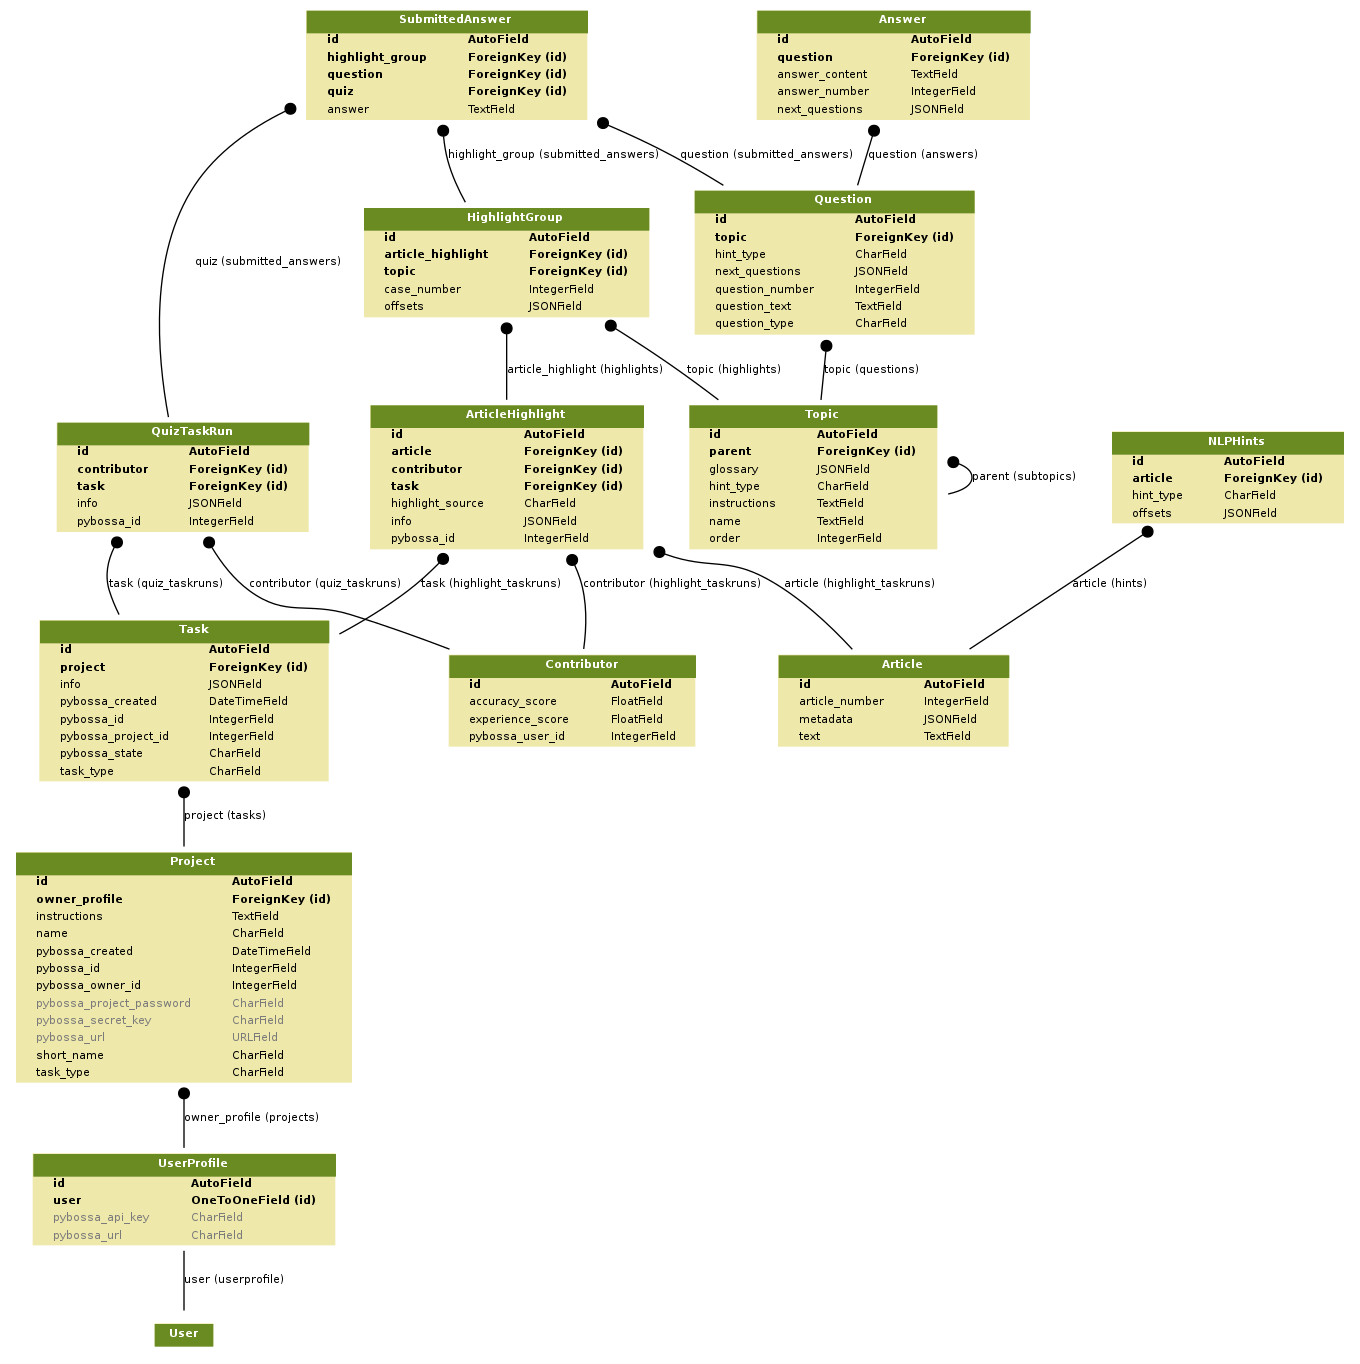
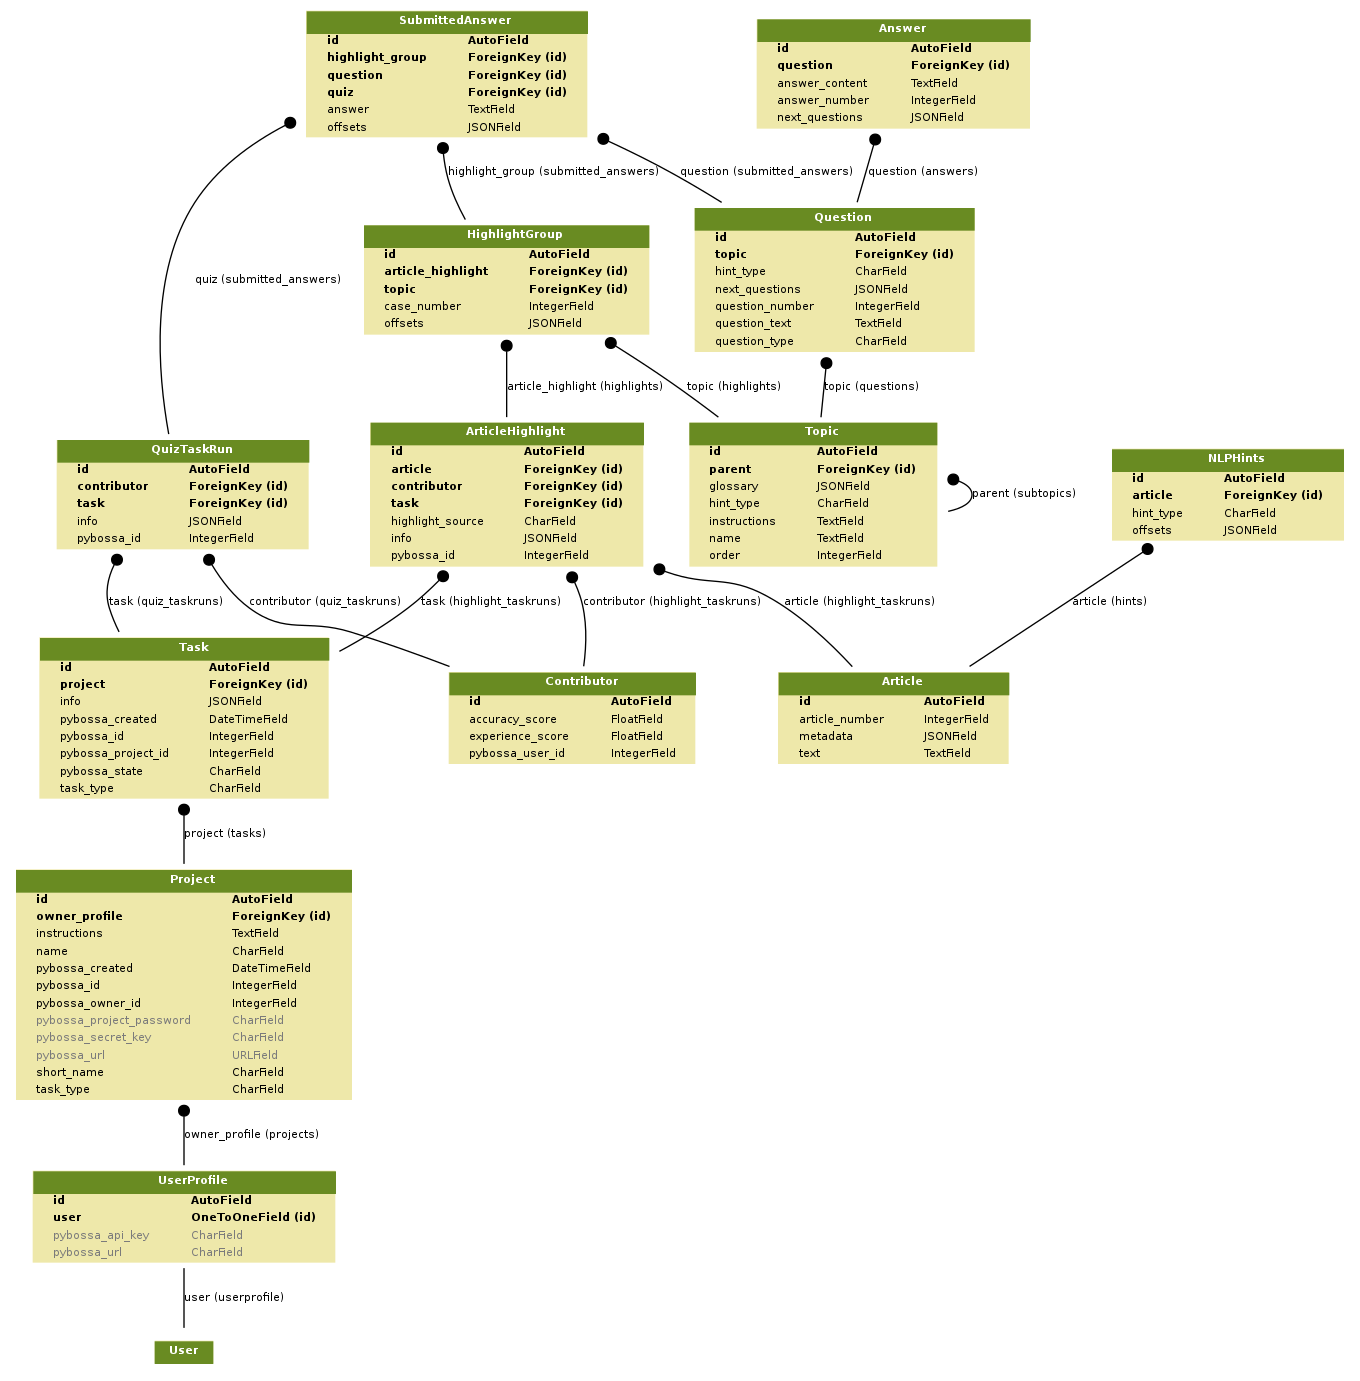
Add field [SubmittedAnswer]offsets
Reset migrations from scratch again.

Update diagrams.

diff --git a/thresher/migrations/0001_initial.py b/thresher/migrations/0001_initial.py
@@ -1,5 +1,5 @@
 # -*- coding: utf-8 -*-
-# Generated by Django 1.11.2 on 2017-06-04 23:59
+# Generated by Django 1.11.2 on 2017-06-05 00:08
 from __future__ import unicode_literals
 
 from django.conf import settings
@@ -113,6 +113,7 @@ class Migration(migrations.Migration):
             fields=[
                 ('id', models.AutoField(auto_created=True, primary_key=True, serialize=False, verbose_name='ID')),
                 ('answer', models.TextField()),
+                ('offsets', django.contrib.postgres.fields.jsonb.JSONField(default=[])),
                 ('highlight_group', models.ForeignKey(on_delete=django.db.models.deletion.CASCADE, related_name='submitted_answers', to='thresher.HighlightGroup')),
                 ('question', models.ForeignKey(on_delete=django.db.models.deletion.CASCADE, related_name='submitted_answers', to='thresher.Question')),
                 ('quiz', models.ForeignKey(on_delete=django.db.models.deletion.CASCADE, related_name='submitted_answers', to='thresher.QuizTaskRun')),

diff --git a/thresher/models.py b/thresher/models.py
@@ -361,6 +361,9 @@ class SubmittedAnswer(models.Model):
 
     answer = models.TextField()
 
+    # highlighted text (stored as JSON array of offset tuples)
+    offsets = JSONField(default=[])
+
     def __unicode__(self):
         return ("id %d question id %d pybossa user id %d") % (self.id,
                 self.question.id, self.quiz.pybossa_user_id)
